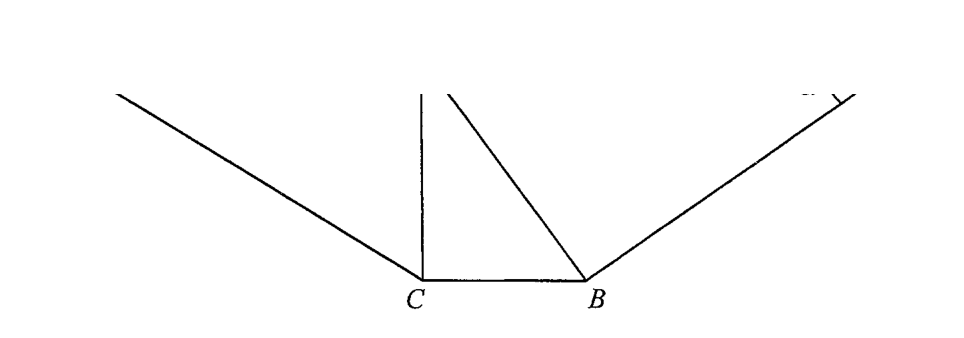
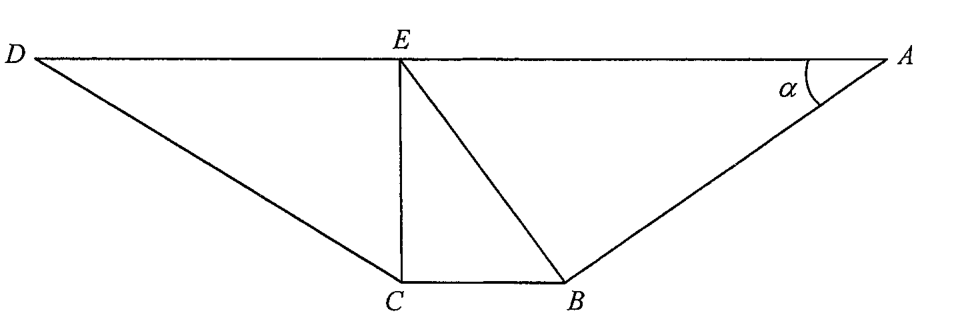
2023 Q23 圖重裁：之前只截到下半，現含完整梯形 D/E/C/B/A 與 alpha

Changed region(s): [[0.0, 0.0909, 0.9717, 0.9394], [0.0607, 0.2121, 0.0911, 0.2727]]

diff --git a/docs/hub/index.html b/docs/hub/index.html
@@ -92,6 +92,6 @@
 <script src="../data.js?v=20261105n"></script>
 <script src="data.js?v=20261105n"></script>
 <script src="app.js?v=20261105n"></script>
-<script src="../pwa.js?v=202611081356"></script>
+<script src="../pwa.js?v=202611081358"></script>
 </body>
 </html>

diff --git a/docs/sw.js b/docs/sw.js
@@ -1,7 +1,7 @@
 /* ===== DSE Hub service worker â€” ç¶²çµ¡å„ªå…ˆï¼Œæ–·ç·šç”¨å¿«å– ===== */
 "use strict";
 
-const CACHE = "dsehub-v202611081356";
+const CACHE = "dsehub-v202611081358";
 const SHELL = [
   "./",
   "./hub/",

diff --git a/docs/index.html b/docs/index.html
@@ -594,6 +594,6 @@ if (!location.hash) {
   openFromHash();
 }
 </script>
-<script src="pwa.js?v=202611081356"></script>
+<script src="pwa.js?v=202611081358"></script>
 </body>
 </html>
